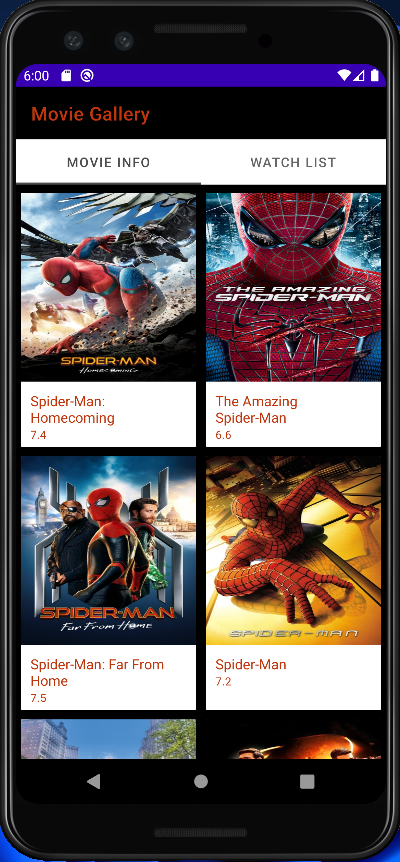
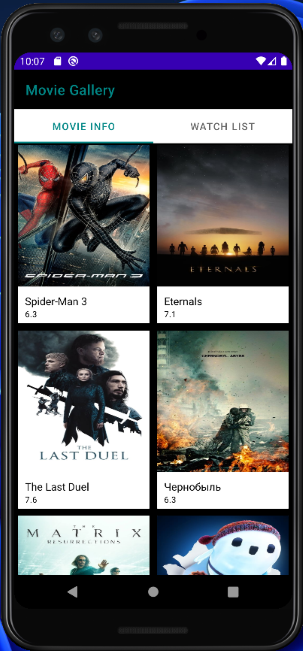
Updated ReadMe with new screenshots

diff --git a/app/src/main/java/com/rupesh/kotlinrxjavaex/utils/AppConstants.kt b/app/src/main/java/com/rupesh/kotlinrxjavaex/utils/AppConstants.kt
@@ -10,7 +10,7 @@ class AppConstants {
 
     companion object {
         const val BASE_URL = "https://api.themoviedb.org/3/"
-        const val api_key = "xxxxxxxxxxx"
+        const val api_key = "xxxxxxxxxxxxxxxx"
         const val DB_NAME = "MovieDB"
         const val POSTER_PATH = "https://image.tmdb.org/t/p/w500"
     }

diff --git a/README.md b/README.md
@@ -1,11 +1,20 @@
 ## Kotlin RxJava example
 
+### Dependencies
+
+- RxJava
+- OkHttp/ Retrofit
+- Room
+- Glide
+
 ## _Screenshots_
 
-![MainActivity ss](./screenshots/movie_main_1.png?raw=true "Optional title") <br><br>
+![MainActivity](./screenshots/movie_main_1.png?raw=true "Optional title") <br><br>
 
-![MainActivity ss](./screenshots/movie_main_2.png?raw=true "Optional title") <br><br>
+![MainActivity](./screenshots/movie_main_2.png?raw=true "Optional title") <br><br>
 
-![MainActivity ss](./screenshots/movie_detail_3.png?raw=true "Optional title") <br><br>
+![DetailActivity](./screenshots/movie_detail_1.png?raw=true "Optional title") <br><br>
 
-![MainActivity ss](./screenshots/movie_detail_2.png?raw=true "Optional title") <br><br>
+![DetailActivity](./screenshots/movie_detail_2.png?raw=true "Optional title") <br><br>
+
+![WatchlistFragment](./screenshots/movie_watchlist_1.png?raw=true "Optional title") <br><br>
